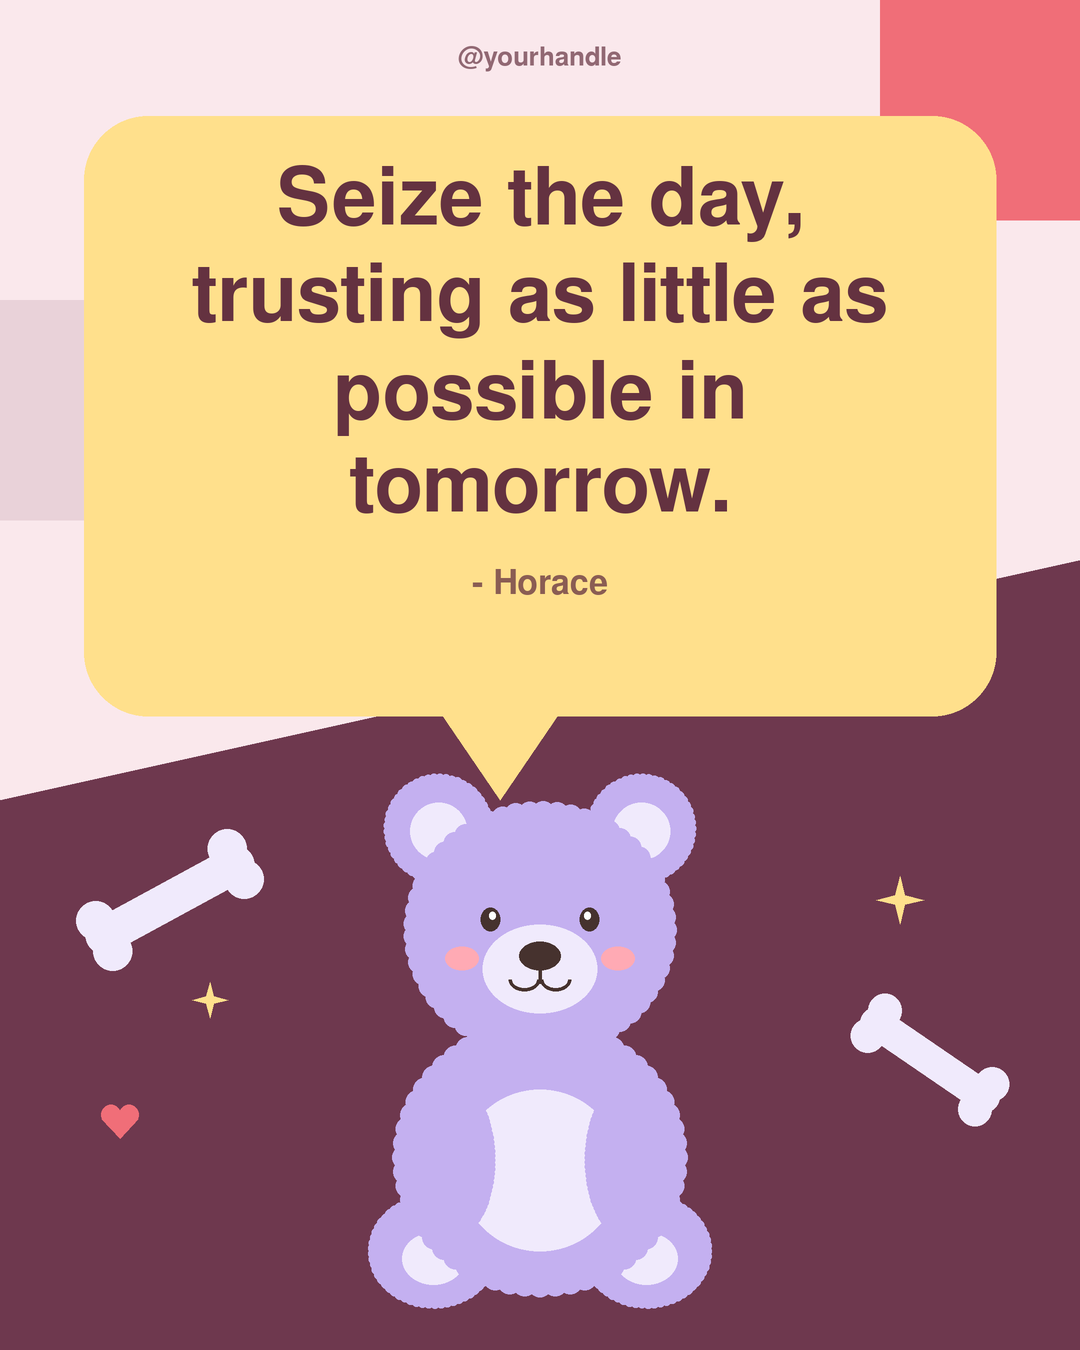
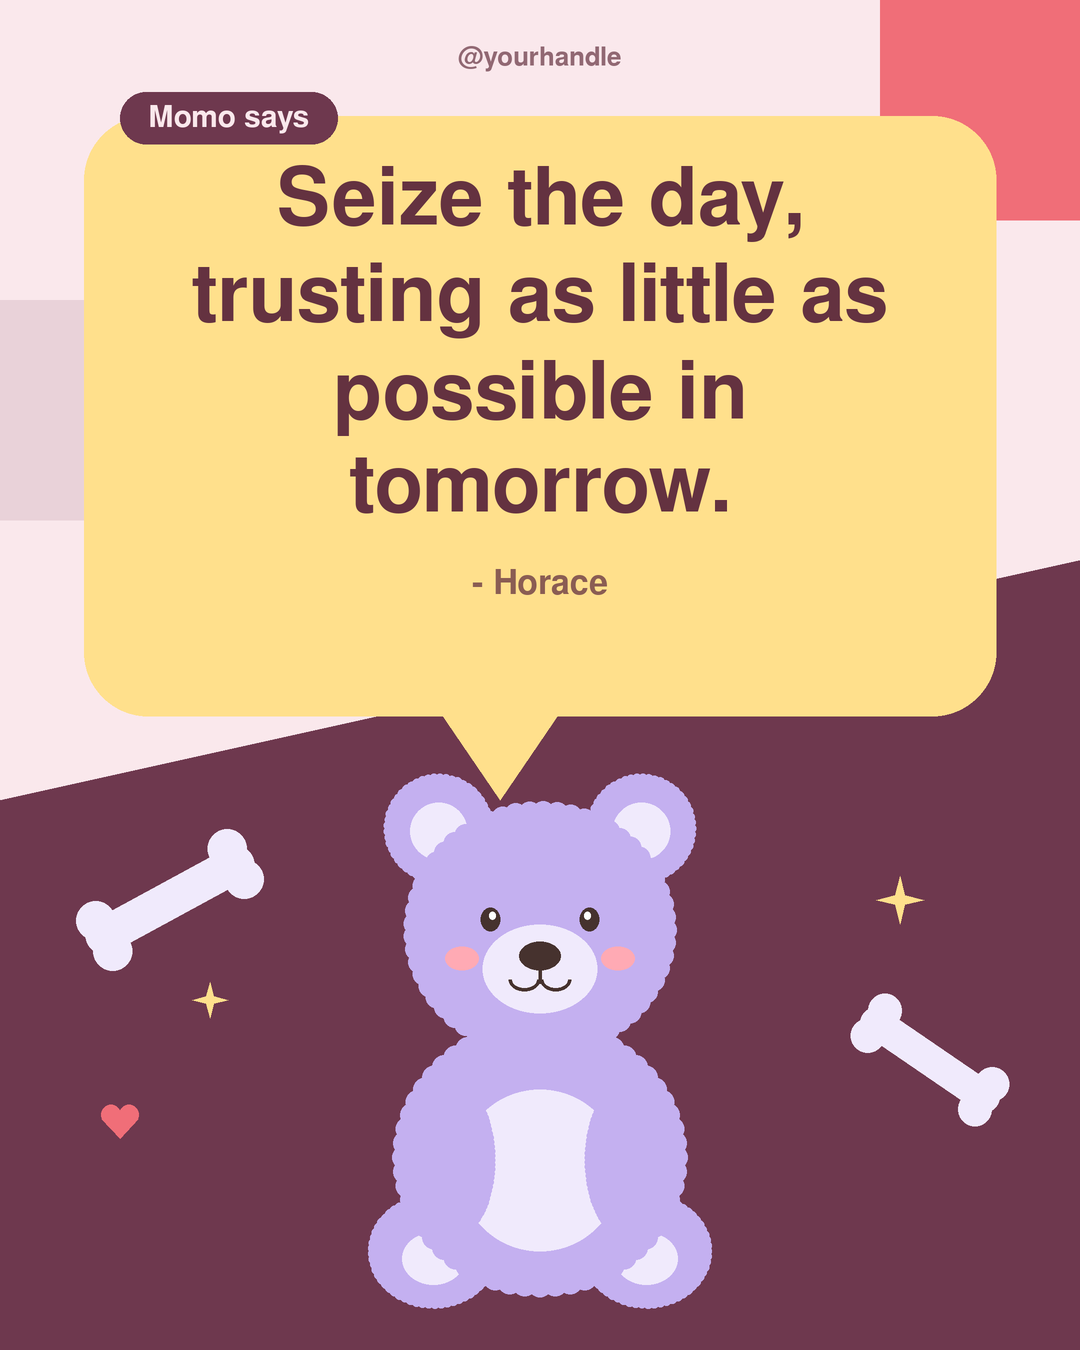
Add named character series (Momo, Pip, Miso, Mochi) with name tags and captions
Claude-Session: https://claude.ai/code/session_015bNrTT2oXXaN1nGaacZyny

Changed region(s): [[0.0917, 0.0622, 0.3361, 0.1244]]

diff --git a/generate_illustrated.py b/generate_illustrated.py
@@ -8,12 +8,13 @@ All characters are drawn from scratch with Pillow (no external artwork).
 Optional handwriting fonts (Caveat, Patrick Hand) are used if present in ./fonts,
 otherwise the script falls back to fonts installed on the system.
 """
+import csv
 import math
 import os
 
 from PIL import Image, ImageDraw, ImageFont
 
-from generate import QUOTES, HANDLE
+from generate import QUOTES, HANDLE, HASH
 
 W, H, S = 1080, 1350, 2  # S = supersampling factor
 HERE = os.path.dirname(os.path.abspath(__file__))
@@ -42,6 +43,17 @@ def mix(a, b, t):
 
 
 WHITE = (255, 255, 255)
+
+# Series cast (see PLAN.md). Plush style always features the bear with its baby.
+NAMES = {"bear": "Momo", "cat": "Miso", "dog": "Mochi"}
+GRID_ANIMALS = ["cat", "dog", "bear"]
+BLOCK_ANIMALS = ["dog", "cat", "bear"]
+
+
+def animal_for(i):
+    """Which character appears on day i+1 (i is 0-based)."""
+    style, v = i % 3, i // 3
+    return ["bear", GRID_ANIMALS[v % 3], BLOCK_ANIMALS[v % 3]][style]
 
 
 class Cv:
@@ -271,6 +283,7 @@ def style_plush(q, a, v):
     heart(cv, 170, 760, 14, acc)
     cv.text(W / 2, 62, HANDLE, font(ROUND, 28), mix(txt, bg, .35), "mt", 1 if REAL_ROUND else 0)
     stroke = 1.2 if REAL_ROUND else 0
+    cv.text(W / 2, 108, "Momo & Pip say", font(BOLD, 32), acc, "mt")
     size, lines = fit(cv, q, ROUND, 820, 470, 90, 44, 1.22)
     y0 = 150 + (470 - size * 1.22 * len(lines)) / 2
     y = draw_block(cv, lines, ROUND, size, W / 2, y0, txt, 1.22, stroke)
@@ -284,9 +297,6 @@ GRID = [  # bg, grid, text, accent, author, animal fur, ear/dark fur, light
     ((250, 249, 245), (232, 228, 214), (240, 132, 96), (120, 190, 170), (140, 100, 84), (196, 172, 150), (140, 108, 84), (245, 232, 218)),
     ((246, 250, 250), (214, 234, 236), (70, 150, 200), (255, 190, 90), (90, 120, 140), (176, 204, 240), (120, 150, 200), (232, 242, 252)),
 ]
-GRID_ANIMALS = ["cat", "dog", "bear"]
-
-
 def style_grid(q, a, v):
     bg, grid, txt, acc, auth, fur, dfur, light = GRID[v % len(GRID)]
     cv = Cv(bg)
@@ -296,6 +306,7 @@ def style_grid(q, a, v):
         cv.d.line([(0, y * S), (W * S, y * S)], fill=grid, width=S * 2)
     cv.text(W / 2, 62, HANDLE, font(HAND, 40), mix(auth, bg, .3), "mt", 1 if REAL_HAND else 0)
     stroke = 1.6 if REAL_HAND else 0
+    cv.text(W / 2, 118, NAMES[GRID_ANIMALS[v % 3]] + " says", font(HAND, 50), acc, "mt", stroke)
     hi = 120 if REAL_HAND else 84
     size, lines = fit(cv, q, HAND, 800, 600, hi, 46, 1.12)
     y0 = 190 + (600 - size * 1.12 * len(lines)) / 2
@@ -329,9 +340,6 @@ BLOCK = [  # bg, dark block, bubble, text, accent tile, animal fur, ear, light
     ((236, 244, 250), (48, 74, 112), (255, 214, 120), (44, 62, 98), (250, 140, 90), (230, 200, 160), (170, 130, 90), (252, 240, 220)),
     ((250, 232, 236), (110, 56, 78), (255, 224, 140), (100, 50, 64), (240, 110, 120), (196, 176, 240), (140, 120, 200), (240, 234, 252)),
 ]
-BLOCK_ANIMALS = ["dog", "cat", "bear"]
-
-
 def style_block(q, a, v):
     bg, dark, bub, txt, tile, fur, dfur, light = BLOCK[v % len(BLOCK)]
     cv = Cv(bg)
@@ -341,6 +349,11 @@ def style_block(q, a, v):
     cv.text(W / 2, 46, HANDLE, font(BOLD, 26), mix(txt, bg, .3), "mt")
     cv.rr(84, 116, W - 84, 716, 64, bub)
     cv.poly([(440, 712), (560, 712), (500, 800)], bub)
+    tag = NAMES[BLOCK_ANIMALS[v % 3]] + " says"
+    tf = font(BOLD, 30)
+    tw = cv.length(tag, tf) + 56
+    cv.rr(120, 92, 120 + tw, 144, 26, dark)
+    cv.text(120 + tw / 2, 118, tag, tf, bg, "mm")
     size, lines = fit(cv, q, BOLD, 780, 420, 80, 40, 1.22)
     y0 = 150 + (420 - size * 1.22 * len(lines)) / 2
     y = draw_block(cv, lines, BOLD, size, W / 2, y0, txt, 1.22)
@@ -366,9 +379,20 @@ STYLES = [style_plush, style_grid, style_block]
 
 def main():
     os.makedirs(OUT, exist_ok=True)
-    for n, (q, a, _src) in enumerate(QUOTES, 1):
+    rows = []
+    for n, (q, a, src) in enumerate(QUOTES, 1):
         i = n - 1
         STYLES[i % 3](q, a, i // 3).save(os.path.join(OUT, f"day{n:02d}.png"))
+        who = "Momo & Pip" if animal_for(i) == "bear" else NAMES[animal_for(i)]
+        who_tag = "Momo" if animal_for(i) == "bear" else NAMES[animal_for(i)]
+        cap = (f"{who} say{'' if ' & ' in who else 's'}: “{q}” — {a}\n\n"
+               f"Save this for when you need it. Share it with someone who does.\n\n"
+               f"{HASH} #{who_tag}AndFriends")
+        rows.append([n, f"day{n:02d}.png", who, q, a, src, cap])
+    with open(os.path.join(OUT, "captions.csv"), "w", newline="", encoding="utf-8-sig") as f:
+        w = csv.writer(f)
+        w.writerow(["day", "image", "character", "quote", "author", "source", "caption"])
+        w.writerows(rows)
     print("done", len(QUOTES), "| handwriting font:", os.path.basename(HAND))
 
 

diff --git a/PLAN.md b/PLAN.md
@@ -13,6 +13,21 @@
   - **Block**: 컬러 블록 + 말풍선 + 강아지/고양이/곰 마스코트
 - 출처 원칙: 인터넷에 오귀속이 흔한 명언(예: Einstein, Churchill의 "지옥을 걷고 있다면…" 등)은 제외하고, 원전(저서/연설)을 특정할 수 있는 명언 위주로 선정. 출처는 `quotes/captions.csv`의 `source` 열.
 
+## 1-2. 캐릭터 시리즈 설정 (Momo & Friends)
+이미지 상단 "OOO says" 이름표와 캡션 첫 줄("Momo says: ...")로 캐릭터가 말하는 형식을 고정합니다. 이름·성격은 제가 제안한 것이며 자유롭게 바꿔도 됩니다.
+
+| 캐릭터 | 모습 | 성격(톤 가이드) | 등장 스타일 |
+|---|---|---|---|
+| **Momo** (곰) + 아기 곰 **Pip** | 폭신한 곰이 아기 곰을 안고 있음 | 따뜻한 위로와 응원 | Plush(매 3일 중 1일), Grid·Block 일부 |
+| **Miso** (고양이) | 도도하고 느긋한 표정 | 차분하고 통찰 있는 한마디 | Grid·Block 일부 |
+| **Mochi** (강아지) | 혀를 내민 활발한 표정 | 밝고 에너지 넘치는 응원 | Grid·Block 일부 |
+
+운영 아이디어(효과는 검증되지 않은 제안이며 인사이트로 확인하세요):
+- 프로필 소개에 캐릭터 이름 포함(예: "Momo, Miso & Mochi share one quote a day"), 해시태그 `#MomoAndFriends`는 캡션에 포함돼 있음
+- 1~2주차에 반응이 좋은 캐릭터를 인사이트로 확인해 3~4주차에 비중 조정
+- 캐릭터 소개 이미지는 30장에 포함되어 있지 않으므로, 첫 게시물로 쓸 "Meet the friends" 1장을 추가 제작 가능(요청 시 제작)
+- 이름의 상표/기존 캐릭터 충돌 여부는 확인하지 못했습니다. 상업적으로 키울 계획이면 게시 전에 직접 검색해 확인하세요.
+
 ## 2. 주차별 플랜
 | 주차 | 목표 | 할 일 |
 |---|---|---|
@@ -28,7 +43,7 @@
 4. 주 1회 인사이트 확인(도달·저장·공유)
 
 ## 4. 30일 게시 캘린더
-Day 1–30 = `day01.png`–`day30.png` (명언 목록·출처: `quotes/captions.csv`)
+Day 1–30 = `day01.png`–`day30.png` (명언·등장 캐릭터·출처·캡션: `quotes/captions.csv`)
 
 ## 5. 주의사항
 - 일부 명언은 고전의 **번역/의역**이라 판본마다 문구가 다릅니다(`source`에 "paraphrased" 표기). 게시 전 본인이 원문을 한 번 대조하기를 권합니다.
